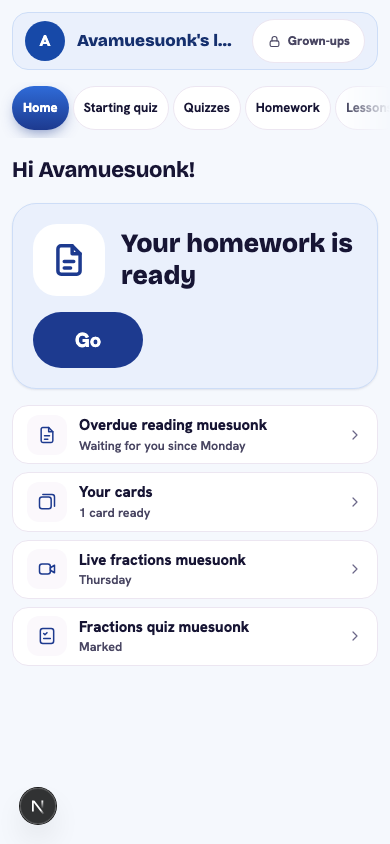
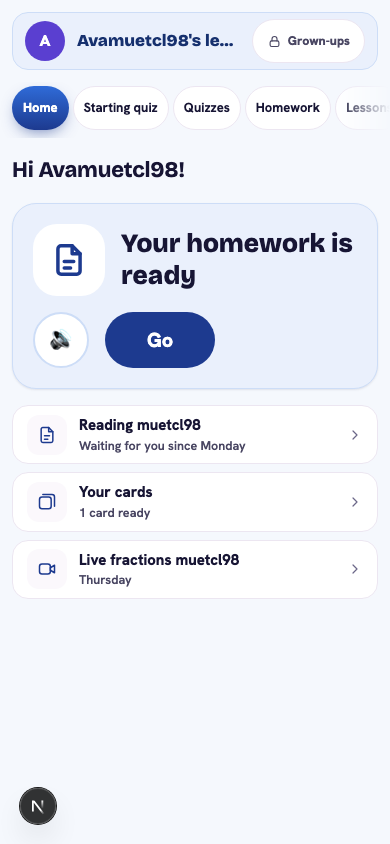
docs: executive summary update, after screenshots

diff --git a/docs/teaching-hub-review/14-round2-review.md b/docs/teaching-hub-review/14-round2-review.md
@@ -1,0 +1,85 @@
+# 14 - Round 2 review (adversarial, read-only)
+
+Method: read 06/09/07/13, diffed `curriculum/map..teaching-hub-redesign`, read the changed code where a claim mattered, and looked at 8 screenshots (kid/home-390, tutor/home-390, parent/home-verdict-390, tutor/lessons-390 and others listed in each journal). I did not run a browser or the stack. Row verdicts for the 233 friction rows are by reading each row against the change notes; I spot-checked about 25 in code (file:line below). Rows not touched by any change note are "not addressed" without further checking. Treat counts as +/- 8.
+
+## 1. Friction rows: 233 -> fixed / partly / not
+
+| Persona (rows) | Fixed | Partly | Not |
+|---|---|---|---|
+| C1 (15) | 4 | 1 | 10 |
+| C2 (10) | 4 | 4 | 2 |
+| C3 (13) | 1 | 3 | 9 |
+| C4 (12) | 3 | 3 | 6 |
+| P1 (15) | 1 | 2 | 12 |
+| P2 (16) | 0 | 3 | 13 |
+| T1 (33) | 4 | 5 | 24 |
+| T2 (15) | 1 | 2 | 12 |
+| T3 (14) | 2 | 0 | 12 |
+| T4 (10) | 2 | 2 | 6 |
+| T5 (14) | 2 | 3 | 9 |
+| X1 (20) | 5 | 4 | 11 |
+| X2 (15) | 1 | 2 | 12 |
+| X3 (31) | 6 | 9 | 16 |
+| **Total 233** | **36 (15%)** | **43 (18%)** | **154 (66%)** |
+
+By theme (which proposal moved it):
+- Child Home / next step / dead buttons (C1-01/04, C2-01/02/03/10, C4-04/10, T4-07, X3-27, C3-09): mostly fixed. This is the redesign's real win.
+- Kind wording and friendly errors (C1-05/07, C4-05/06, C2-05): fixed for network errors and quiz results; raw messages still pass through (kit.tsx `friendlyError`, P-05.md).
+- One truth for homework, header numbers, forgotten broadcast, duplicate curriculum, safeguarding erase (X3-28, X3-06, X3-16/T3-01/T3-11, X3-20, X2-04/05): fixed.
+- Accessibility (X1): 5 fixed, 4 partly; 11 untouched (board keyboard, timer, small text, form errors).
+- Tutor workflow: marking, quiz builder, assign entry points, messages threads, student profile, enrol (T1 rows 01-02, 04, 06-24, 26-28; T3-02..09; T5-01, T5-06; X3-03/04/12/13): essentially untouched. This is the bulk of the 154.
+- Accommodations, read-aloud, timers, teen mode (C1-02, C3-01, C4-01/02/03/12, T4-01/02/03/05): 0 of 12 addressed except kid-mode hiding streak. Roadmap R-5/R-6.
+- Parent comms, notifications, i18n, jargon (P1-03..10, P2-01..04/06/13/15/16): 0 fixed.
+- Owner oversight (T2-01/02/05/07/08/10, X2-01/03/07/08/09): 0 fixed, deliberate.
+
+Honest read: 15% fixed is a strong result for a first pass concentrated on the child and header, but the tutor's evening job (mark, assign, build a quiz) is unchanged.
+
+## 2. Regressions and new problems (severity)
+
+1. MEDIUM - End lesson can silently not happen. `remotesync/TutorLiveBanner.tsx:26` clears the pending timer on unmount; the End call is only sent after the 6 s Undo (`:30-33`). The banner is mounted separately on Home and Lessons, so a tab switch inside 6 s cancels the End, the strip vanishes from view, and the broadcast keeps running (child join banner stays up until the 90 min expiry). Defeats P-01's purpose in the exact case (tutor rushes on). Fix: send `/end` immediately and make Undo a re-open, or flush on unmount.
+2. MEDIUM - P-02 "collapsed by default" was not delivered. `HubHero.tsx:65` `useState(true)`; tutor/home-390.png shows 3 tiles + lede before Next lesson. The 09 log promised a collapsed hero. Not a regression, but the report (10-roadmap) implies done.
+3. LOW-MEDIUM - Parent hero contradicts the verdict card: "0 lessons - 0 subjects", 0/0 tiles and a clipped "Av" tile (parent/home-390.png) directly above "1 homework task overdue". Flagged in 13-verification and left.
+4. LOW-MEDIUM - H-01 removed the reader's one-click "Set this lesson" and the in-person "also send to portals": +1 tap for the most frequent tutor verb; the trade-off is logged (H-01.md) but no "Set homework" button was added to the live workspace after the lesson.
+5. LOW - Kid Home contradicts the challenge decision "no list under the card": `home/KidHome.tsx:16` shows up to 4 rows for Years 3-6 and 6 for 7+. Tutor free-text titles leak the shame word ("Overdue reading" in kid/home-390.png), so P-13's kind language is bypassed.
+6. LOW - Kid tab allow-list grew 7 -> 9 (`family/KidMode.tsx:16`). KidStars is child-scoped, no leak found, but Messages (free text to any in-scope tutor) is still in kid mode.
+7. LOW - Kid Progress is stars only with invented 70/40 thresholds; for teens it is less useful than before (weak topics unreachable).
+8. LOW - Dead code left: `KID_TAB_LABEL.dashboard` (`KidMode.tsx:20`); alias entries `lessons`/`progress` with no UI use.
+9. Test debt: 13-verification says no single run had every spec green at once; two assign-lesson tests are timing-flaky; dark mode, keyboard and screen reader not tested; first-run guide never screenshotted.
+
+No data-loss, auth or privacy regression found. The erase manifest with a drift self-test (`server/src/hubSelfTest5.ts`) is good.
+
+## 3. Burden check per proposal (did anything ADD a screen/tab/setting/notification?)
+
+| P | Added | Removed | Verdict |
+|---|---|---|---|
+| P-01 | End button, 6 s Undo strip | forgotten-broadcast class | small add, worth it (but see bug 1) |
+| P-02 | one summary line | Worksheets tile, topics sub-line | net remove; hero not collapsed |
+| P-03 | KidHome card, KidStars screen (new), 2 hidden kid routes | 5 kid blocks | new screen but replaces a dead button; net simpler |
+| P-04 | RetryFace | false empty state | neutral |
+| P-05 | Try again button | dev text | neutral |
+| P-06 | none | 3 taps | good |
+| P-07 | none visible | - | good; an invisible `--on-brand` hook |
+| P-08 | none | 138 tiles | good |
+| P-09 | none | grid, duplicate rings | good |
+| P-10 | alias map | 2 names | rename only; tab count still 11 |
+| P-11 | none (server) | - | good |
+| P-12 | 3-step card (zero-student only), Year + Subject filters (hidden when N/A) | empty zeros | small add, self-removing |
+| P-13 | string table | shame words | neutral |
+| H-01 | none | 3 homework paths, list icon | good, at a +1 tap cost |
+
+No new tab, setting or notification anywhere. That is the discipline the hawk asked for. The flip side: nothing was removed at the tab level (still 11).
+
+## 4. Ranked next 10 changes
+
+1. Fix End lesson unmount cancel (flush or send immediately). S. Safeguarding of the whole P-01 win.
+2. One Mark queue (R-2): homework, quiz written, placement in one list with Mark-and-next. L. T1/X3's biggest cluster (about 20 rows, ~28 clicks).
+3. Read-aloud speaker on the kid card, question prompt and result headline, reusing the existing `speak()` in `lesson/slides/blocks.tsx`. S-M. C1-02, C4-02, T4-05, C2.
+4. Per-child accommodations flag set (no timer/extra time, streaks/confetti off, text size) as additive enrolment fields (R-5). M. T4-01/02/03, C4-01/07/12, X1-04.
+5. Make the tutor hero actually collapsed by default and hide 0/0 tiles for families (parent hero contradiction). S. Finishes P-02 and fixes the visible parent oddity.
+6. Enrol-by-name plus first-run for the invite flow (R-13). M. T5-01, X3-12.
+7. Parent notifications for overdue and lesson-soon, one category (R-14) plus grammar fix. M. P1-03/04/07.
+8. Tutor->child messaging rules, DSL view and acting-as stamp (R-8/R-9). M-L. X2-01/03/08/09 (owner review first).
+9. Merge tabs 11 -> 9 now that naming agrees (Starting quizzes into Quizzes filter, Tools into Lessons) after item 2. M. X3-01/11/19.
+10. Assign in one sheet (R-1) with group and "all Year N" chips and tomorrow chips; restore a "Set homework" button in the live workspace. M. T1-14..17, T1-22/23, X3-02.
+
+Also cheap: in kid mode render item titles through a kind filter (or hide the title's state words), and remove the four KS2 rows to honour the challenge log. And run the untouched a11y checks (dark mode, keyboard, screen reader) before merge.

diff --git a/docs/teaching-hub-review/screenshots/before/NOTES.md b/docs/teaching-hub-review/screenshots/before/NOTES.md
@@ -1,11 +1,94 @@
 # Teaching Hub - BEFORE screenshots + metrics
 
-Generated by e2e/review/hub-screens.spec.ts on throwaway @activityos-test.com accounts (2026-09-23T22:39:33.503Z).
+Generated by e2e/review/hub-screens.spec.ts on throwaway @activityos-test.com accounts (2026-09-24T00:00:13.063Z).
 Times: click until the active panel shows text / until it has no skeleton blocks left (20s cap); first tab of each run also shows full page-load time. Overflow = tab strip scrollWidth/clientWidth. Screenshots: <role>/<tab>-<viewport>.png (full page) and -fold.png.
 
 | role | tab | viewport | first content / no skeletons | tab strip overflow | console err/warn | failed requests | error banners | page height px |
 |---|---|---|---|---|---|---|---|---|
-
+| tutor | home | 390 | 3.5s / 3.5s (page 7.4s) | YES 918/390 | 0 | 0 | - | 3253 |
+| tutor | live | 390 | 0.3s / 0.3s | YES 918/390 | 0 | 0 | - | 1271 |
+| tutor | students | 390 | 0.3s / 1.1s | YES 918/390 | 0 | 0 | - | 3854 |
+| tutor | dashboard | 390 | 0.5s / 0.5s | YES 918/390 | 0 | 0 | - | 992 |
+| tutor | diagnostic | 390 | 0.3s / 1.2s | YES 919/390 | 0 | 0 | - | 2106 |
+| tutor | quizzes | 390 | 0.3s / 1.0s | YES 918/390 | 0 | 0 | - | 1541 |
+| tutor | homework | 390 | 0.9s / 0.9s | YES 918/390 | 0 | 0 | - | 844 |
+| tutor | notes | 390 | 0.3s / 0.3s | YES 918/390 | 0 | 0 | - | 844 |
+| tutor | tools | 390 | 0.3s / 0.3s | YES 918/390 | 0 | 0 | - | 9107 |
+| tutor | flashcards | 390 | 1.3s / 1.3s | YES 918/390 | 0 | 0 | - | 1419 |
+| tutor | questions | 390 | 0.4s / 0.4s | YES 918/390 | 0 | 0 | - | 844 |
+| tutor | home | 768 | 3.8s / 3.8s (page 7.2s) | YES 934/768 | 0 | 0 | - | 3272 |
+| tutor | live | 768 | 0.3s / 0.3s | YES 934/768 | 0 | 0 | - | 1088 |
+| tutor | students | 768 | 0.3s / 1.0s | YES 934/768 | 0 | 0 | - | 2023 |
+| tutor | dashboard | 768 | 0.6s / 0.6s | YES 934/768 | 0 | 0 | - | 1024 |
+| tutor | diagnostic | 768 | 0.3s / 1.0s | YES 935/768 | 0 | 0 | - | 1507 |
+| tutor | quizzes | 768 | 0.3s / 0.9s | YES 934/768 | 0 | 0 | - | 1024 |
+| tutor | homework | 768 | 0.9s / 0.9s | YES 934/768 | 0 | 0 | - | 1024 |
+| tutor | notes | 768 | 0.3s / 0.3s | YES 934/768 | 0 | 0 | - | 1024 |
+| tutor | tools | 768 | 0.3s / 0.3s | YES 934/768 | 0 | 0 | - | 4733 |
+| tutor | flashcards | 768 | 0.9s / 0.9s | YES 934/768 | 0 | 0 | - | 1024 |
+| tutor | questions | 768 | 0.3s / 0.3s | YES 934/768 | 0 | 0 | - | 1024 |
+| tutor | home | 1440 | 3.4s / 3.4s (page 7.0s) | YES 1220/1192 | 0 | 0 | - | 1601 |
+| tutor | live | 1440 | 0.3s / 0.3s | YES 1220/1192 | 0 | 0 | - | 900 |
+| tutor | students | 1440 | 0.3s / 0.9s | YES 1220/1192 | 0 | 0 | - | 922 |
+| tutor | dashboard | 1440 | 0.3s / 0.3s | YES 1220/1192 | 0 | 0 | - | 900 |
+| tutor | diagnostic | 1440 | 0.3s / 1.0s | YES 1221/1192 | 0 | 0 | - | 1404 |
+| tutor | quizzes | 1440 | 0.3s / 1.0s | YES 1220/1192 | 0 | 0 | - | 1024 |
+| tutor | homework | 1440 | 0.8s / 0.8s | YES 1220/1192 | 0 | 0 | - | 900 |
+| tutor | notes | 1440 | 0.3s / 0.3s | YES 1220/1192 | 0 | 0 | - | 900 |
+| tutor | tools | 1440 | 0.3s / 0.3s | YES 1220/1192 | 0 | 0 | - | 3238 |
+| tutor | flashcards | 1440 | 0.9s / 0.9s | YES 1220/1192 | 0 | 0 | - | 900 |
+| tutor | questions | 1440 | 0.4s / 0.4s | YES 1220/1192 | 0 | 0 | - | 900 |
+| parent | home | 390 | 0.3s / 0.3s (page 43.8s) | YES 840/390 | 0 | 0 | - | 2867 |
+| parent | live | 390 | 0.3s / 0.3s | YES 840/390 | 0 | 0 | - | 1303 |
+| parent | dashboard | 390 | 0.9s / 0.9s | YES 840/390 | 0 | 0 | - | 1464 |
+| parent | diagnostic | 390 | 0.3s / 1.2s | YES 841/390 | 0 | 0 | - | 969 |
+| parent | quizzes | 390 | 1.2s / 1.2s | YES 840/390 | 0 | 0 | - | 943 |
+| parent | homework | 390 | 0.8s / 0.8s | YES 840/390 | 0 | 0 | - | 882 |
+| parent | notes | 390 | 0.3s / 0.3s | YES 840/390 | 0 | 0 | - | 845 |
+| parent | tools | 390 | 0.3s / 0.3s | YES 840/390 | 0 | 0 | - | 9273 |
+| parent | flashcards | 390 | 0.8s / 0.8s | YES 840/390 | 0 | 0 | - | 1145 |
+| parent | questions | 390 | 0.6s / 0.6s | YES 840/390 | 0 | 0 | - | 844 |
+| parent | home | 768 | 0.3s / 0.3s (page 44.0s) | YES 856/768 | 0 | 0 | - | 2701 |
+| parent | live | 768 | 0.3s / 0.3s | YES 856/768 | 0 | 0 | - | 1093 |
+| parent | dashboard | 768 | 1.5s / 1.5s | YES 856/768 | 0 | 0 | - | 1401 |
+| parent | diagnostic | 768 | 0.3s / 1.5s | YES 857/768 | 0 | 0 | - | 1024 |
+| parent | quizzes | 768 | 1.2s / 1.2s | YES 856/768 | 0 | 0 | - | 1024 |
+| parent | homework | 768 | 1.1s / 1.1s | YES 856/768 | 0 | 0 | - | 1024 |
+| parent | notes | 768 | 0.3s / 0.3s | YES 856/768 | 0 | 0 | - | 1024 |
+| parent | tools | 768 | 0.3s / 0.3s | YES 856/768 | 0 | 0 | - | 4825 |
+| parent | flashcards | 768 | 0.8s / 0.8s | YES 856/768 | 0 | 0 | - | 1035 |
+| parent | questions | 768 | 0.5s / 0.5s | YES 856/768 | 0 | 0 | - | 1024 |
+| parent | home | 1440 | 0.3s / 0.3s (page 43.7s) | no | 0 | 0 | - | 1852 |
+| parent | live | 1440 | 0.3s / 0.3s | no | 0 | 0 | - | 1009 |
+| parent | dashboard | 1440 | 1.0s / 1.0s | no | 0 | 0 | - | 1321 |
+| parent | diagnostic | 1440 | 0.3s / 1.4s | no | 0 | 0 | - | 900 |
+| parent | quizzes | 1440 | 1.2s / 1.2s | no | 0 | 0 | - | 900 |
+| parent | homework | 1440 | 0.8s / 0.8s | no | 0 | 0 | - | 900 |
+| parent | notes | 1440 | 0.3s / 0.3s | no | 0 | 0 | - | 900 |
+| parent | tools | 1440 | 0.3s / 0.3s | no | 0 | 0 | - | 3318 |
+| parent | flashcards | 1440 | 1.0s / 1.0s | no | 0 | 0 | - | 900 |
+| parent | questions | 1440 | 0.4s / 0.4s | no | 0 | 0 | - | 900 |
+| kid | home | 390 | 1.9s / 1.9s (page 12.3s) | YES 589/390 | 0 | 0 | - | 844 |
+| kid | diagnostic | 390 | 0.3s / 1.2s | YES 590/390 | 0 | 0 | - | 844 |
+| kid | quizzes | 390 | 1.5s / 1.5s | YES 589/390 | 0 | 0 | - | 844 |
+| kid | homework | 390 | 0.9s / 0.9s | YES 589/390 | 0 | 0 | - | 844 |
+| kid | notes | 390 | 0.3s / 0.3s | YES 589/390 | 0 | 0 | - | 844 |
+| kid | flashcards | 390 | 1.1s / 1.1s | YES 589/390 | 0 | 0 | - | 844 |
+| kid | questions | 390 | 0.4s / 0.4s | YES 589/390 | 0 | 0 | - | 844 |
+| kid | home | 768 | 1.6s / 1.6s (page 11.1s) | no | 0 | 0 | - | 1024 |
+| kid | diagnostic | 768 | 0.3s / 1.5s | no | 0 | 0 | - | 1024 |
+| kid | quizzes | 768 | 1.3s / 1.3s | no | 0 | 0 | - | 1024 |
+| kid | homework | 768 | 0.8s / 0.8s | no | 0 | 0 | - | 1024 |
+| kid | notes | 768 | 0.3s / 0.3s | no | 0 | 0 | - | 1024 |
+| kid | flashcards | 768 | 0.9s / 0.9s | no | 0 | 0 | - | 1024 |
+| kid | questions | 768 | 0.3s / 0.3s | no | 0 | 0 | - | 1024 |
+| kid | home | 1440 | 1.7s / 1.7s (page 12.1s) | no | 0 | 0 | - | 900 |
+| kid | diagnostic | 1440 | 0.3s / 1.4s | no | 0 | 0 | - | 900 |
+| kid | quizzes | 1440 | 1.3s / 1.3s | no | 0 | 0 | - | 900 |
+| kid | homework | 1440 | 0.8s / 0.8s | no | 0 | 0 | - | 900 |
+| kid | notes | 1440 | 0.3s / 0.3s | no | 0 | 0 | - | 900 |
+| kid | flashcards | 1440 | 1.0s / 1.0s | no | 0 | 0 | - | 900 |
+| kid | questions | 1440 | 0.3s / 0.3s | no | 0 | 0 | - | 900 |
 
 ## Earlier attempt (superseded)
 A first pass via the browser tool captured 5 desktop JPGs only (tutor/*.jpg); it could not resize the viewport and the API was overloaded (35-40s loads, "We can't reach Teaching Hub").

diff --git a/docs/teaching-hub-review/12-executive-summary.md b/docs/teaching-hub-review/12-executive-summary.md
@@ -5,7 +5,7 @@
 ## What was done
 1. **Research:** 14 persona agents (5 tutor, 4 child, 2 parent, 3 specialist) walked the hub; 233 friction rows merged (`03-friction-log.csv`), synthesis (`04`), scorecard (`04b`), structure options (`05`), child-experience design (`08`).
 2. **Challenge:** six challenger agents (simplicity, overloaded tutor, six-year-old, engineer, safeguarding, white-label) attacked the proposals; decisions in `09-challenge-log.md`.
-3. **Built:** P-01…P-13 + H-01 (see `10-roadmap.md`), then wave 2: bug/hero fixes, One Mark queue (R-2), read-aloud and per-child support profile (R-5) — see `07-changes/`.
+3. **Built (46 commits, all with notes in `07-changes/`):** P-01…P-13 + H-01; visual fixes V-01..V-05 (tab strip fits at 1440, hero, curriculum wrap, Home 'More'); G-01..G-05 (End lesson can no longer be cancelled by a tab switch, hero collapsed, kid Home rows/kind titles, Set homework after a lesson); **R-2 One Mark queue** (~28 → ~18 taps to clear 8 items, derived from code); read-aloud; **R-5 per-child support profile** (no timer/extra time, calm mode, text size; additive optional field, tutor-only edit). Type-check clean (app + server); selftests pass (hubSelfTest5 erase-coverage, support).
 4. **Tools:** all 102 live tools open cleanly at 1440 and 390 (`e2e/review/tools-open-all.spec.ts`); 17 tool selftest suites pass; Tools tab shows only working tools.
 5. **Verified:** hub specs pass with a review-only Playwright config; after-screenshots at 390/768/1440 (`13-verification-report.md`); round-2 adversarial review (`14-round2-review.md`): 15% of friction fixed, 18% partly, rest = tutor marking/assign/quiz builder, parent comms, owner oversight (roadmap).
 

diff --git a/docs/teaching-hub-review/02-personas/T1-journal-after.md b/docs/teaching-hub-review/02-personas/T1-journal-after.md
@@ -1,0 +1,17 @@
+# T1 journal, after (round 2 review): T1 tutor, Tuesday 6:55pm (mark, set homework)
+
+Checked against code on branch teaching-hub-redesign and screenshots/after/. No browser run by the reviewer.
+
+## Improved
+- Nudge now opens the homework form with the student ticked (TutorHome/ClassSnapshot, P-06): T1-05 fixed, 4 taps -> 1. Overdue row opens 'Not handed in' (T1-03): 2 taps -> 1.
+- Curriculum grid closed, one summary line first on Lessons (screenshots/after/tutor/lessons-390.png) (T1-25). Tools shows ready only (T1-30).
+- Hero: Worksheets tile deleted, 4 tiles -> 3; still about 45 words and 3 tiles before 'Next lesson' at 390 (tutor/home-390.png). Partly (T1-09). P-02 said collapsed by default; HubHero.tsx:65 is useState(true), so it is NOT collapsed.
+
+## Still broken
+- Marking untouched: three queues, one-at-a-time, no batch (T1-01/02/04). Still about 28 clicks to clear 9+7 items.
+- Quiz builder (T1-18..21), flashcards (T1-22), topic select 2,457 (T1-24), Messages accordions (T1-27/28) not touched. Start lesson still only switches tab (T1-10).
+- Lessons search still title only (T1-12); the new Year/Subject filter exists only in the homework lesson picker.
+
+## New problems introduced
+- H-01 removed the reader's one-click 'Set this lesson' shortcut and the list icon: +1 tap for a tutor who used it (logged in H-01.md). Not caught as a regression by the builders, but a small loss for the busiest verb.
+- Home Nudge with a view-only role opens progress: fine.

diff --git a/docs/teaching-hub-review/02-personas/X1-journal-after.md b/docs/teaching-hub-review/02-personas/X1-journal-after.md
@@ -1,0 +1,12 @@
+# X1 journal, after (round 2 review): X1 accessibility (keyboard, screen reader, contrast)
+
+Checked against code on branch teaching-hub-redesign and screenshots/after/. No browser run by the reviewer.
+
+## Improved
+- Tab switch moves focus to panel heading and sets document.title (X1-02, X1-09 partly: no h1 guarantee); Escape closes only the top layer (escapeLayer.ts) (X1-03); curriculum tablist roving (X1-10); child switch announced (X1-11); token contrast: --green #0b7a44 5.41, control borders #85849b (X1-05/06/08 partly).
+
+## Still broken
+- Board keyboard drawing (X1-01), timer aria (X1-04), 11px text 447 uses (X1-17), focus ring on dark (X1-15), form aria-invalid (X1-14), single-letter shortcuts (X1-16), MatchOrder/CoordGrid (X1-13/19), ParentGate (X1-18) untouched. `text-white` still occurs 287 times in features/learninghub, most on non-gradient fills: 'not done' per P-07.md, so X1-05 is partial. Nothing was run with a screen reader or in dark mode (13-verification 'Still unverified').
+
+## New problems introduced
+- Not verified: focus-to-heading on every tab switch may steal focus after arrow roving on some panels; only structurally asserted.

diff --git a/docs/teaching-hub-review/02-personas/T3-journal-after.md b/docs/teaching-hub-review/02-personas/T3-journal-after.md
@@ -1,0 +1,13 @@
+# T3 journal, after (round 2 review): T3 in-person / remote lesson
+
+Checked against code on branch teaching-hub-redesign and screenshots/after/. No browser run by the reviewer.
+
+## Improved
+- Tutor banner has 'End lesson' with a 6 s Undo (TutorLiveBanner.tsx:30-40); expiry 6 h -> 90 min (remoteSyncApi.ts:70); child heartbeat no longer keeps a session alive. T3-01, T3-11 fixed: cannot end -> 1 tap.
+
+## Still broken
+- No register (T3-02/18), per-child capture scroll, offline/retry states (T3-03/04/05/13/14), enrol+group flow (T3-07), bulk marking (T3-09) all untouched. Teach in person is still the 6th Home tile.
+
+## New problems introduced
+- MEDIUM: the End call is sent only after the 6 s timer, and the unmount cleanup clears that timer (TutorLiveBanner.tsx:26 `useEffect(() => () => clearTimeout)`). The banner is mounted separately on Home and Lessons, so switching tab inside the Undo window silently cancels the End while the tutor believes it ended. Fix: send /end immediately and make Undo re-open, or flush on unmount.
+- 'Send to class' homework in in-person removed (H-01): the tutor must remember to Set homework afterwards.

diff --git a/docs/teaching-hub-review/02-personas/X3-journal-after.md b/docs/teaching-hub-review/02-personas/X3-journal-after.md
@@ -1,0 +1,12 @@
+# X3 journal, after (round 2 review): X3 information architect, whole-hub map
+
+Checked against code on branch teaching-hub-redesign and screenshots/after/. No browser run by the reviewer.
+
+## Improved
+- Naming agrees: Starting quizzes, Messages, Set homework, alias map for ?tab= (tabAlias.ts) (X3-11/22/25 partly). Header numbers agree (X3-06). Home vs Homework truth (X3-28 fixed). Broadcast endable (X3-16). Duplicate curriculum removed (X3-20). Child Lessons opens on stars, not grid (X3-31). Three direct-post homework paths removed (X3-02 partly).
+
+## Still broken
+- Structure is unchanged: still 11 tabs (panels.tsx:31 TAB_ORDER), three marking queues (X3-03/04), no student profile (X3-13), 23-click enrol->start (X3-12), Groups above students, Tools tab kept, question bank duplicated (X3-09). The redesign is a rename + declutter, not a re-organisation; the two biggest X3 findings (tabs by data type, three marking queues) are untouched.
+
+## New problems introduced
+- Alias `lessons`->notes and `progress`->dashboard are new vocabulary that no UI label uses yet: harmless.

diff --git a/docs/teaching-hub-review/02-personas/C1-journal-after.md b/docs/teaching-hub-review/02-personas/C1-journal-after.md
@@ -1,0 +1,12 @@
+# C1 journal, after (round 2 review): C1 Year 1-2 child, pre-reader
+
+Checked against code on branch teaching-hub-redesign and screenshots/after/. No browser run by the reviewer.
+
+## Improved
+- Kid Home: about 200-350 words / 8 blocks -> about 30 words: 'Hi X!', one card 'Your homework is ready' + 56px Go (kid/home-390.png). First action is 1 tap and above the fold (C1-01 fixed). Join lesson works when a lesson is open (C1-04). Error is 'Oops! Let's try again.' (C1-05). Result no longer shows '25 points short' (C1-07).
+
+## Still broken
+- Still no read-aloud anywhere (C1-02): no speaker button was added to the new card. Tabs are still 7 text pills (C1-03), hand-in still 3 screens (C1-08), flashcard 'Again/Hard/Good/Easy' (C1-11), no instant right/wrong (C1-06).
+
+## New problems introduced
+- The one word on the card is 'Go' plus a 6-word phrase: fine for reading age but fails pre-readers without audio. Item titles in the list are tutor free text (see screenshot: 'Overdue reading muesad6b').

diff --git a/docs/teaching-hub-review/02-personas/P1-journal-after.md b/docs/teaching-hub-review/02-personas/P1-journal-after.md
@@ -1,0 +1,12 @@
+# P1 journal, after (round 2 review): P1 parent, checks on the phone
+
+Checked against code on branch teaching-hub-redesign and screenshots/after/. No browser run by the reviewer.
+
+## Improved
+- Verdict line 'N homework task(s) overdue' / 'On track. Nothing is overdue' at the top of the summary (StudentHome.tsx:143-145) (P1-01 fixed). But at 390px it sits below hero, child bar, hand-over bar and tab strip (parent/home-verdict-390.png), so P1-02 only partly.
+
+## Still broken
+- No new notifications: overdue, lesson soon, only-first-reply (P1-03/04/06) untouched (roadmap R-14). Hand-over gate without confirm/explanation (P1-09), two inboxes (P1-05), 'Ava and Leo has' grammar (P1-07) untouched.
+
+## New problems introduced
+- Parent hero says '0 lessons - 0 subjects' with 0/0 tiles beside a kid with work (13-verification, screenshot parent/home-390.png; the tiles also clip 'Av'). Verification report flagged it; nothing fixed. LOW-MEDIUM: contradicts the verdict card directly below.

diff --git a/docs/teaching-hub-review/02-personas/X2-journal-after.md b/docs/teaching-hub-review/02-personas/X2-journal-after.md
@@ -1,0 +1,12 @@
+# X2 journal, after (round 2 review): X2 safeguarding lead
+
+Checked against code on branch teaching-hub-redesign and screenshots/after/. No browser run by the reviewer.
+
+## Improved
+- hubDoubts, liveAnswers, board images, notifications now erased and exported, with a self-test that fails on drift (hubPrivacy.ts, hubSelfTest5.ts): X2-04 fixed, X2-05 mostly. Kid mode hides streaks (X2-13 partly).
+
+## Still broken
+- Every other item is deliberately deferred: tutor->child thread rules and DSL view (X2-01/03), keyword scan (X2-02), acting-as stamping and audit (X2-08/09), access log (X2-07), ParentGate server-side (X2-10), early room entry (X2-11). Multi-child notifications survive erase (11-open-questions #9).
+
+## New problems introduced
+- LOW-MEDIUM: kid mode still offers the free-text Messages tab to any in-scope tutor, and now also a `dashboard` route; KidStars is child-scoped, so no new leak found, but the KID_TABS allow-list grew from 7 to 9.

diff --git a/docs/teaching-hub-review/02-personas/T5-journal-after.md b/docs/teaching-hub-review/02-personas/T5-journal-after.md
@@ -1,0 +1,12 @@
+# T5 journal, after (round 2 review): T5 brand-new tutor, day one
+
+Checked against code on branch teaching-hub-redesign and screenshots/after/. No browser run by the reviewer.
+
+## Improved
+- Zero-student Home shows a 3-step guide (P-12): T5-02 fixed. Homework picker gets Year/Subject with sensible defaults (T5-03 fixed). Tools tab shows ready tools only (T5-11 partly).
+
+## Still broken
+- Cannot enrol by name (T5-01, roadmap R-13); still 11 tabs, icons hidden below 1024px (T5-07); invite flow (T5-06), EnableHubCard wording (T5-04), dead-end 'off until you switch it on' (T5-05), placement explainer (T5-09) unchanged. Hero tiles of zeros are still above the guide (HubHero still open by default), so T5-12 is only partly better. The first-run guide was never captured in a screenshot (13-verification 'Still unverified').
+
+## New problems introduced
+- None seen; guide vanishes at one student as intended.

diff --git a/docs/teaching-hub-review/02-personas/C3-journal-after.md b/docs/teaching-hub-review/02-personas/C3-journal-after.md
@@ -1,0 +1,12 @@
+# C3 journal, after (round 2 review): C3 Year 7-9, wants to feel grown-up
+
+Checked against code on branch teaching-hub-redesign and screenshots/after/. No browser run by the reviewer.
+
+## Improved
+- Kid mode now hides streak/ring/week dots for every band, so less babyish (C3-08 partly); next step card first (C3-09). Curriculum grid closed (C3-10 partly). Year 7+ get a plain 'Due this week' list (KidHome.tsx:16).
+
+## Still broken
+- No teen mode (C3-01), no weakest-topic sort or practice (C3-03/05/06), Focus next not tappable (C3-04), confetti/XP unchanged (C3-11). The kid Progress view is stars only: for a teen it is LESS informative than before, and weak topics are still unreachable (C3-02 partly).
+
+## New problems introduced
+- LOW: 'Nearly there' wording and stars for Year 7-9 is the primary-school tone C3 complained about; kidCopy gates kind wording at Year 10+ only.
